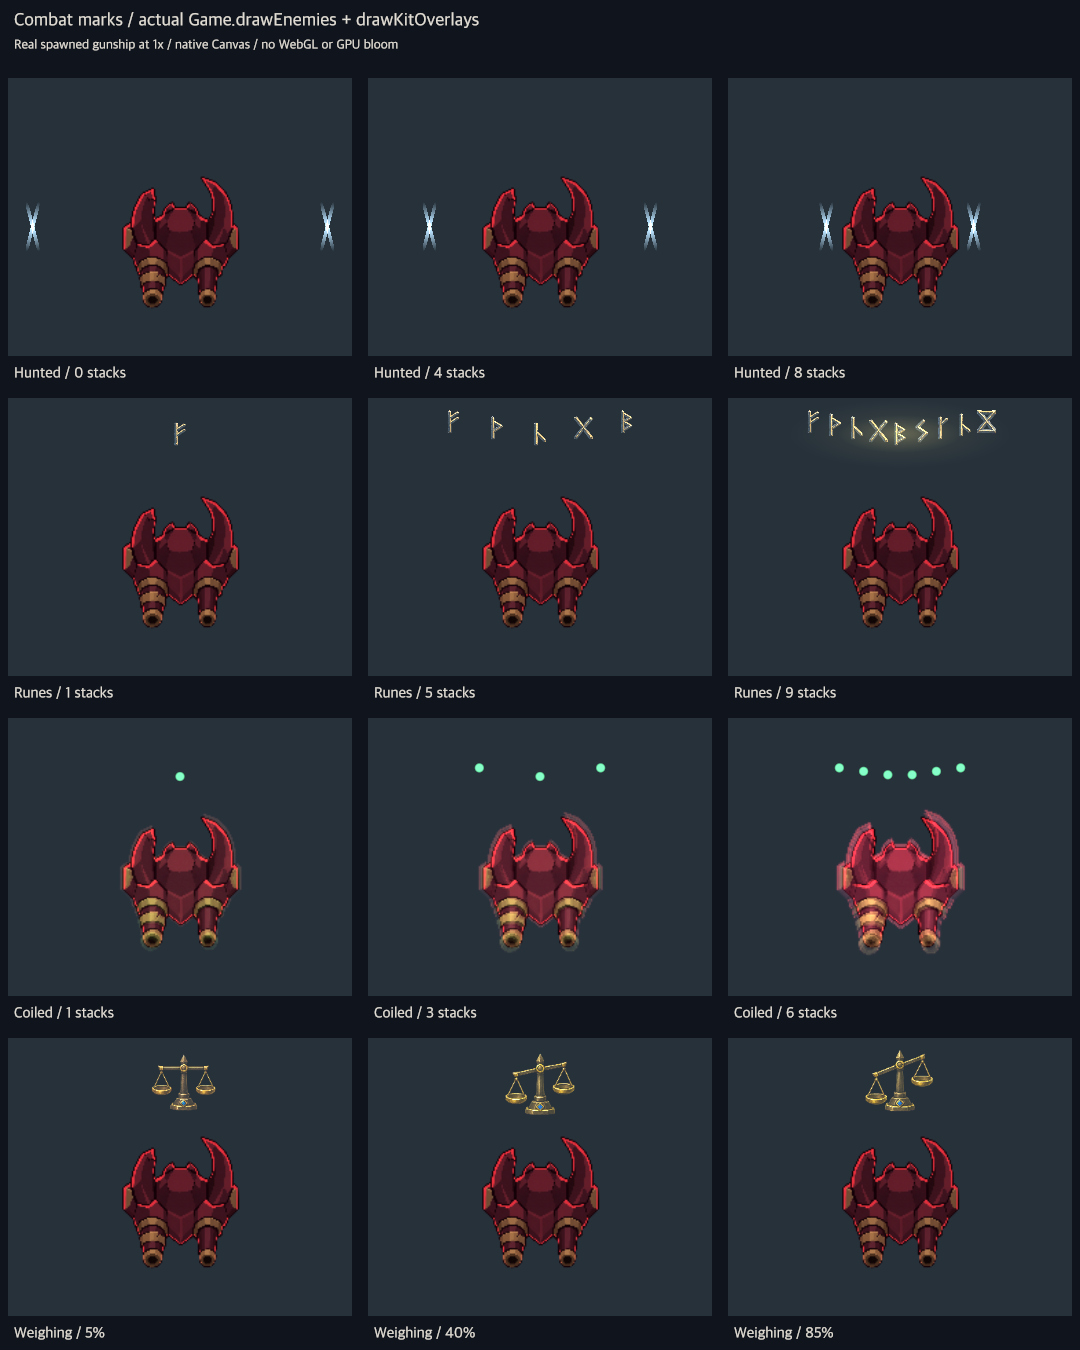
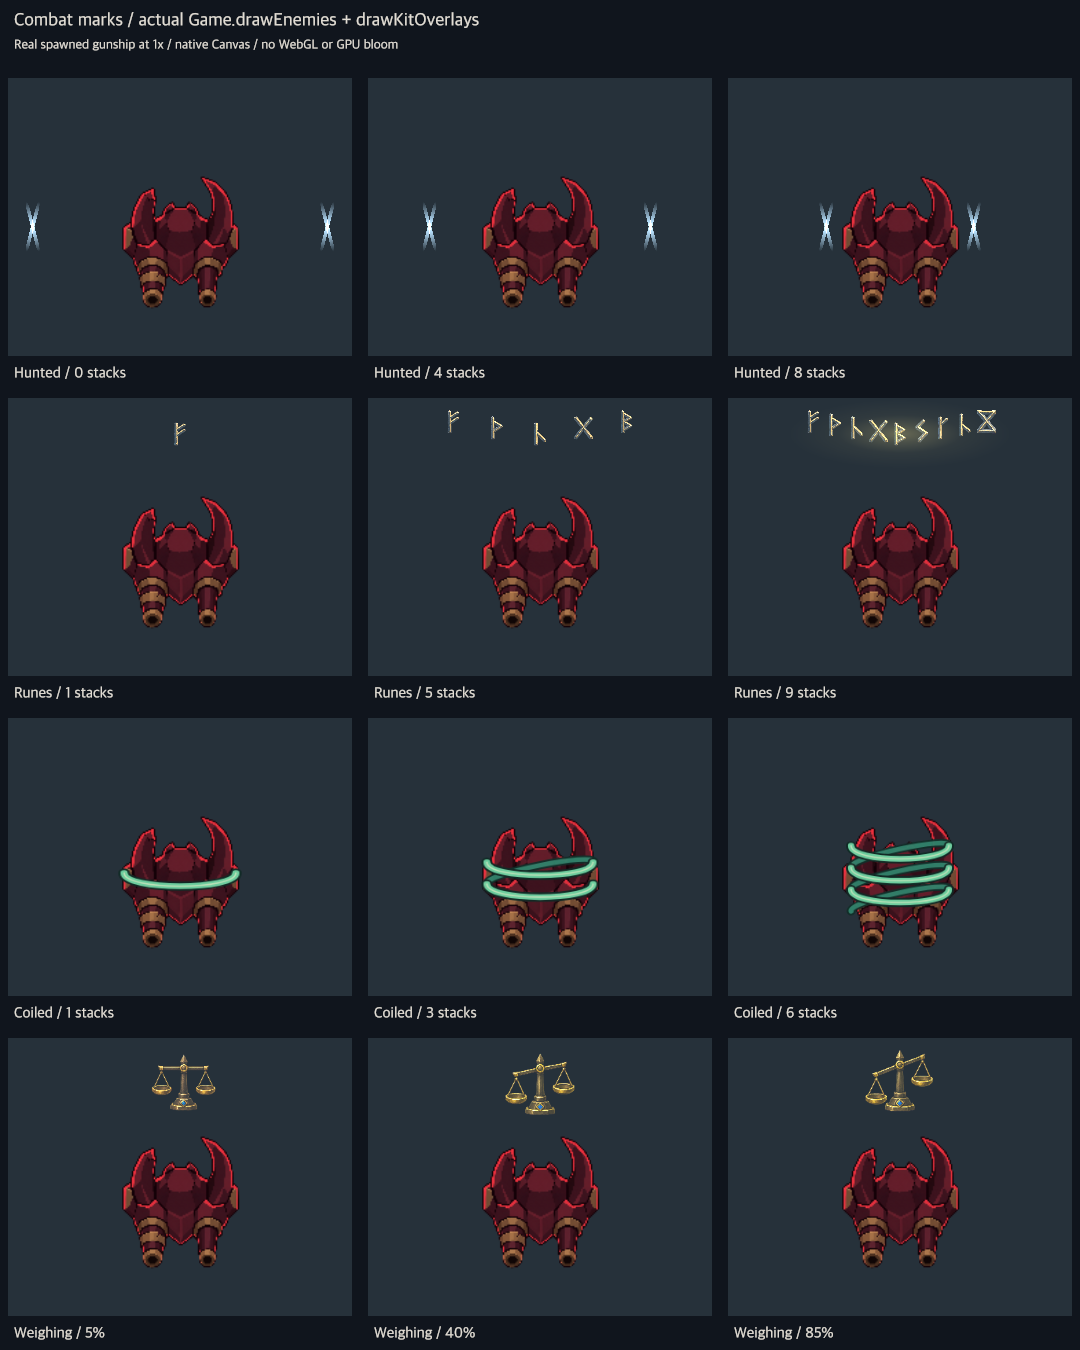
Clarify coil stacks and rename Loki's bullet snatch

Changed region(s): [[0.7639, 0.56, 0.9167, 0.7156], [0.4278, 0.5911, 0.5806, 0.7156], [0.0917, 0.5911, 0.2444, 0.7156]]

diff --git a/js/run.js b/js/run.js
@@ -198,8 +198,8 @@
                  attack: 'THE WEIGHING: your hits load the scales on every foe; when they tip, the Verdict devours the weak for gold (bosses take a judgment burst + Weaken).',
                  special: 'GATE OF DUAT: a gate of sand opens below; the wounded are dragged toward judgment, bleeding missing health.' },
     loki:      { name: 'LOKI', epithet: 'the Trickster', pantheon: 'ASGARD', css: '#8cff5a', color: [0.55, 1.0, 0.35],
-                 // PASS2: PILFER text is pre-set so a restore of the Loki ATTACK draft is already correct.
-                 attack: 'PILFER — your hits pickpocket a foe (3 marks); on the third, snatch the 8 nearest enemy bullets.',
+                 // PASS2: SNATCH text is pre-set so a restore of the Loki ATTACK draft is already correct.
+                 attack: 'SNATCH — your hits pickpocket a foe (3 marks); on the third, snatch the 8 nearest enemy bullets.',
                  special: 'Shadow-Twin: a decoy that draws all aimed fire and soaks bullets.' },
     odin:      { name: 'ODIN', epithet: 'the Allfather', pantheon: 'ASGARD', css: '#cfd6e0', color: [0.8, 0.85, 0.92],
                  attack: 'NINE NIGHTS: one heavy rune-bolt; every 4th hit carves a rune into the foe, each +15% against it — forever.',
@@ -251,7 +251,7 @@
                  sDesc: 'Solar Flare flashes the screen white.', sHow: 'Ignites every foe with Burn.' },
     anubis:    { aDesc: 'Hits build Judgment on each foe.', aHow: 'Full Judgment executes weak foes; damages bosses.',
                  sDesc: 'Open a vortex below your ship.', sHow: 'Pulls foes in; damage scales with missing health.' },
-    loki:      { aDesc: 'Hits add Pilfer marks.', aHow: 'On the third, snatch 8 nearby bullets.',
+    loki:      { aDesc: 'Hits add Mischief marks.', aHow: 'On the third, snatch 8 nearby bullets.',
                  sDesc: 'Shadow-Twin decoy stands in for you.', sHow: 'Draws all aimed fire; soaks bullets.' },
     odin:      { aDesc: 'Fire a heavy rune bolt.', aHow: 'Every fourth hit adds +15% damage to that foe.',
                  sDesc: 'Gungnir never misses, piercing foe after foe.', sHow: 'Marks each foe it runs through.' },
@@ -277,7 +277,7 @@
     heimdall:  { attack: { qtyLabel: 'lance damage', secondary: 'marks' }, special: { qtyLabel: 'horn damage', secondary: '+shove' } },
     ra:        { attack: { qtyLabel: 'beam damage', secondary: 'heat stages' }, special: { qtyLabel: 'flare damage', secondary: 'Burn' } },
     anubis:    { attack: { qtyLabel: 'weigh damage', secondary: 'the scales' }, special: { qtyLabel: 'gate drain', secondary: 'bleed' } },
-    loki:      { attack: { qtyLabel: 'pilfer damage', secondary: 'bullet snatch' }, special: { qtyLabel: 'decoy soak', secondary: 'draw' } },
+    loki:      { attack: { qtyLabel: 'stolen dagger damage', secondary: 'bullet snatch' }, special: { qtyLabel: 'decoy soak', secondary: 'draw' } },
     odin:      { attack: { qtyLabel: 'bolt damage', secondary: 'rune carve' }, special: { qtyLabel: 'Gungnir damage', secondary: 'pierce' } },
     wukong:    { attack: { qtyLabel: 'clone fire', secondary: 'spawn odds' }, special: { qtyLabel: 'staff damage', secondary: 'stun' } },
     guanyu:    { attack: { qtyLabel: 'crescent damage', secondary: 'per-pierce' }, special: { qtyLabel: 'sweep damage', secondary: 'shove' } },
@@ -353,8 +353,8 @@
     heimdall: [['heimVigil', '+20% damage to Marked foes', 'any'], ['heimHorn', 'Gjallarhorn hits harder; shove 350px', 'special'], ['heimEcho', 'the horn echoes once at 50% after 1s', 'special']],
     ra: [['raRamp', 'beam ramps faster & higher', 'attack'], ['raSpread', 'burning foes spread Burn on death', 'any'], ['raSplit', 'beam splits vs swarms', 'attack'], ['raBurn', 'beam ignites its target', 'attack']],
     anubis: [['anubisHeavy', 'HEAVY HEART: foes below half tip 2× faster', 'attack'], ['anubisFeast', 'FEAST OF THE FAITHFUL: Verdict/Gate kill gold +50%', 'any'], ['anubisRefund', 'a Verdict refunds special charge', 'attack'], ['anubisShard', 'a Verdict drops a DIVINE INTERVENTION shard', 'attack']],
-    // PASS2: lokiVaunt + lokiChance restored under PILFER (their Confuse-era readers are replaced).
-    loki: [['lokiLong', 'decoy lasts 6 → 9s', 'special'], ['lokiBoom', 'decoy explodes: bullets → gold', 'special'], ['lokiVaunt', 'pilfered daggers charge DIVINE INTERVENTION', 'attack'], ['lokiChance', 'PICKPOCKET: Pilfer on the 2nd mark; steal 12', 'attack']],
+    // PASS2: lokiVaunt + lokiChance restored under SNATCH (their Confuse-era readers are replaced).
+    loki: [['lokiLong', 'decoy lasts 6 → 9s', 'special'], ['lokiBoom', 'decoy explodes: bullets → gold', 'special'], ['lokiVaunt', 'stolen daggers charge DIVINE INTERVENTION', 'attack'], ['lokiChance', 'PICKPOCKET: Snatch on the 2nd mark; steal 12', 'attack']],
     odin: [['odinRaven', 'odinFury: runes carve every 3rd hit (from 4th)', 'attack'], ['odinMark', 'Gungnir marks last; bonus x1.4', 'special'], ['odinRavenMark', 'odinSunder: doom-bolts splash 50% to a nearby foe', 'attack'], ['odinGungnir', 'Gungnir +50% damage & longer', 'special']],
     wukong: [['wukongClones', 'clones last 7s, cap 3', 'attack'], ['wukongStaff', 'staff wider; survivors Stunned', 'special'], ['wukongSpecial', 'clones echo your special at 25%', 'special'], ['wukongChance', 'clone spawn 20% → 35%', 'attack']],
     quetz: [['quetzBig', 'serpent larger & slower', 'special'], ['quetzGold', 'eaten bullets also pay gold', 'special'], ['quetzCircle', 'serpent circles you at the end', 'special'], ['quetzPierce', '+1 more pierce', 'attack']],
@@ -490,7 +490,7 @@
     if (!slots.length) return null;
     var slot = slots[Math.floor(Run.rng() * slots.length)];
     var owned = slot === 'attack' ? st.attackGod : st.specialGod;
-    var others = GOD_KEYS.filter(function (g) { return g !== owned; });   // PASS2: Loki ATTACK restored (PILFER)
+    var others = GOD_KEYS.filter(function (g) { return g !== owned; });   // PASS2: Loki ATTACK restored (SNATCH)
     var g = others[Math.floor(Run.rng() * others.length)];
     return slot === 'attack' ? tAttack(g, true) : tSpecial(g, true);
   }
@@ -547,7 +547,7 @@
     // attack / special transforms — only while the slot is empty.
     // Swaps are NOT part of the weighted pool: they'd flood it (11 gods × weight
     // per filled slot). A single swap card is rarely injected in pickDistinct.
-    if (!st.attackGod) GOD_KEYS.forEach(function (g) { push(tAttack(g, false), 14); });   // PASS2: Loki ATTACK restored (PILFER)
+    if (!st.attackGod) GOD_KEYS.forEach(function (g) { push(tAttack(g, false), 14); });   // PASS2: Loki ATTACK restored (SNATCH)
     if (!st.specialGod) GOD_KEYS.forEach(function (g) { push(tSpecial(g, false), 12); });
     // transform LEVEL-UP (pom) cards — your own equipped god, up the ladder
     if (st.attackGod && st.attackR < 3.5) push(tLevel('attack', st.attackGod), 10);
@@ -874,7 +874,7 @@
     var st = Game.st();
     if (idx === 0) {
       // Hades opening: three ATTACK transforms from three different gods
-      var gs = GOD_KEYS.slice();   // PASS2: Loki ATTACK restored (PILFER) — all gods eligible for the opening pick
+      var gs = GOD_KEYS.slice();   // PASS2: Loki ATTACK restored (SNATCH) — all gods eligible for the opening pick
       for (var s = gs.length - 1; s > 0; s--) { var j = ri(s + 1); var t = gs[s]; gs[s] = gs[j]; gs[j] = t; }
       Run.draftOffers = [finalizeBoon(tAttack(gs[0], false), false), finalizeBoon(tAttack(gs[1], false), false), finalizeBoon(tAttack(gs[2], false), false)];
     } else {

diff --git a/js/gl.js b/js/gl.js
@@ -83,7 +83,7 @@
     FLAT_RECT: 125, FLAT_TRIANGLE: 126, FLAT_DISC: 127,
     STATUS_FIRE0: 128, // six fixed-root flame drawings, not scaled stickers
     STATUS_HEART: 134, STATUS_FEAR: 135, STATUS_WEAK: 136,
-    STATUS_STUN: 137, STATUS_BRACKET: 138, STATUS_TARGET: 140
+    STATUS_STUN: 137, STATUS_BRACKET: 138, STATUS_TARGET: 140, STATUS_COIL: 151
   };
 
   var gl = null;
@@ -313,6 +313,7 @@
     // Keep ordinary cells and their alpha-derived collision sizing untouched.
     // Boss animation gets native-sized storage instead of enlarging 128px art.
     if (i >= 112 && i <= 115) return { x: 1024 + ((i - 112) % 2) * 512, y: Math.floor((i - 112) / 2) * 512, size: 512 };
+    if (i >= 151 && i <= 156) return { x: 1024 + (i - 151) * CELL, y: 1792, size: CELL };
     if (i >= 144 && i <= 150) return { x: 1024 + ((i - 144) % 4) * 256, y: 1280 + Math.floor((i - 144) / 4) * 256, size: 256 };
     if (i >= 128 && i < 192) return { x: 1024 + ((i - 128) % 8) * CELL, y: 1024 + Math.floor((i - 128) / 8) * CELL, size: CELL };
     var cx = (i % COLS) * CELL;
@@ -876,6 +877,31 @@
     draw(GL.SPR.STATUS_BRACKET,function(ctx,r){
       statusStroke(ctx,r);ctx.beginPath();ctx.moveTo(r*.65,-r*.65);ctx.lineTo(-r*.65,-r*.65);ctx.lineTo(-r*.65,r*.65);ctx.stroke();
     });
+    for (var coilStack=1;coilStack<=6;coilStack++) (function(stack) {
+    draw(GL.SPR.STATUS_COIL + stack - 1,function(ctx,r){
+      // One continuous helical winding: shaded return strokes, broad jade
+      // front strokes. Sparse and unornamented so the enemy stays readable.
+      ctx.lineCap='round';ctx.lineJoin='round';
+      function coilPath(front) {
+        ctx.beginPath();
+        for(var turn=0;turn<Math.ceil(stack/2);turn++) {
+          var y=(-stack*.10-.10+turn*.40)*r;
+          if(front) {
+            ctx.moveTo(-r*.82,y);
+            ctx.bezierCurveTo(-r*.82,y+r*.32,r*.82,y+r*.32,r*.82,y);
+          } else if(turn*2+2<=stack) {
+            ctx.moveTo(r*.82,y);
+            ctx.bezierCurveTo(r*.88,y-r*.19,-r*.88,y+r*.21,-r*.82,y+r*.40);
+          }
+        }
+      }
+      coilPath(false);ctx.strokeStyle='#122e29';ctx.lineWidth=r*.15;ctx.stroke();
+      ctx.strokeStyle='#31816a';ctx.lineWidth=r*.085;ctx.stroke();
+      coilPath(true);ctx.strokeStyle='#102a25';ctx.lineWidth=r*.17;ctx.stroke();
+      ctx.strokeStyle='#6ed3a2';ctx.lineWidth=r*.105;ctx.stroke();
+      ctx.strokeStyle='#bce8bd';ctx.lineWidth=r*.025;ctx.stroke();
+    });
+    })(coilStack);
     draw(GL.SPR.STATUS_TARGET,function(ctx,r){
       ctx.strokeStyle='#fff';ctx.lineWidth=r*.095;
       // Open center leaves room for a simultaneous Weak badge.

diff --git a/js/game.js b/js/game.js
@@ -7299,20 +7299,15 @@
       }
       if (ignite) { var ip = 0.6 + 0.4 * Math.sin(t * 12); GL.draw(GL.SPR.GLOW, e.x, gy, span * 1.3, s * 0.4, 0, 1, 0.85, 0.4, 0.4 * ip); }
     }
-    // QUETZ — the coil is a JADE RIM-LIGHT on the constricted foe (intensity + thickness
-    // step with e.coilQ 1-6, jade → hot-white at max), + a jade pip count in the over-hull
-    // band (one pip per coil). No circular arcs (owner ring law).
+    // QUETZ — a literal jade winding around the hull. More bites pull the
+    // coil tighter and add a half-turn per stack; no floating counters or pulse.
     if (e.coilQ > 0 && G.attackGod === 'quetz') {
-      var cf = e.coilQ / 6, qcell = enemyDrawCell(e);
-      var jr = 0.35 + 0.55 * cf, jg = 1.0, jb = 0.5 + 0.45 * cf;              // jade → hot-white as the coil tightens
-      var qsc = 1.05 + 0.07 * cf, qa = 0.32 + 0.30 * cf;                       // thicker + brighter rim per stack
-      var qpulse = e.coilQ >= 6 ? (0.7 + 0.3 * Math.sin(t * 9)) : 1;           // max coil: a CONSTRICT pulse in the rim itself
-      stateRim(qcell, e.x, e.y, s, e.rot, jr, jg, jb, qa * qpulse, qsc);
-      var qspan = s * 0.7, qpy = e.y - s * 0.62;                              // pips ride the over-hull band
-      for (var qp = 0; qp < e.coilQ; qp++) {
-        var qpf = e.coilQ > 1 ? (qp / (e.coilQ - 1) - 0.5) : 0;
-        GL.draw(GL.SPR.CORE, e.x + qpf * qspan, qpy - Math.abs(qpf) * s * 0.1, s * 0.06, s * 0.06, 0, 0.4, 1, 0.6, 0.95);
-      }
+      var cf = Math.min(6, e.coilQ) / 6;
+      var coilW = s * (.82 - .12 * cf);
+      var coilH = s * .64;
+      GL.blendPremult();
+      GL.draw(GL.SPR.STATUS_COIL + Math.min(6, e.coilQ) - 1, e.x, e.y, coilW, coilH, 0, 1, 1, 1, .96);
+      GL.blendAdditive();
     }
     // ANUBIS THE WEIGHING — gold scales glyph over the hull, visibly tipping left as
     // accrued weight loads. Five ordered poses make the approach to the Verdict legible.
@@ -7368,7 +7363,7 @@
       for (var mi = 0; mi < markN; mi++) {
         var mx = e.x + (mi - (markN - 1) * 0.5) * markGap;
         var knifeRot = markN === 1 ? -0.12 : (mi ? 0.34 : -0.34);
-        if (knifeC >= 0) GL.draw(knifeC, mx, markY, s * 0.30, s * 0.50, knifeRot, 1, 1, 1, 0.98 * markPulse);
+        if (knifeC >= 0) GL.draw(knifeC, mx, markY, s * 0.30, s * 0.50, knifeRot + Math.PI, 1, 1, 1, 0.98 * markPulse);
         else GL.draw(GL.SPR.SHARD, mx, markY, s * 0.12, s * 0.30, knifeRot, 0.55, 1.0, 0.35, 0.96 * markPulse);
       }
     }

diff --git a/index.html b/index.html
@@ -47,12 +47,12 @@
   <!-- Load order matters: no modules, each file hangs a namespace on window. -->
   <script src="js/sfx.js?v=20260930-refinements"></script>
   <script src="js/music.js?v=20260930-refinements"></script>
-  <script src="js/sprites-data.js?v=20261003-terror-readability"></script>
+  <script src="js/sprites-data.js?v=20261003-coil-stacks"></script>
   <script src="js/backdrops-data.js?v=20260724-file-art"></script>
-  <script src="js/gl.js?v=20261003-terror-readability"></script>
+  <script src="js/gl.js?v=20261003-coil-stacks"></script>
   <script src="js/engine.js?v=20260930-refinements"></script>
   <script src="js/patterns.js?v=20260723-continuous-world"></script>
-  <script src="js/run.js?v=20261003-terror-readability"></script>
-  <script src="js/game.js?v=20261003-terror-mirrored"></script>
+  <script src="js/run.js?v=20261003-coil-stacks"></script>
+  <script src="js/game.js?v=20261003-coil-stacks"></script>
 </body>
 </html>

diff --git a/BOONS.md b/BOONS.md
@@ -207,28 +207,28 @@ armory, Odin NINE NIGHTS, Heimdall THE BIFRÖST.
 
 ### ASGARD
 
-**LOKI** — PILFER · Shadow-Twin (attack REWORKED, loki rec; **CONFUSE IS DEAD** — ruling 1)
+**LOKI** — SNATCH · Shadow-Twin (attack REWORKED, loki rec; **CONFUSE IS DEAD** — ruling 1)
 - **CONFUSE REMOVED game-wide.** Delete the on-hit confuse roll, the AIMX/AIMY aim-reflection (→ plain target), the
   +15% vs-confused rider. Rename freed `confuseT/confuseBudget` → `trickStacks/trickBudget`. Loki's boss self-harm now
-  lives **inside Pilfer's boss budget**, not a confuse mechanic.
-- **ATK PILFER**: every landed shot +1 **MISCHIEF** to that foe (cap 3, decay 2.5s). At 3 → **PILFERED**: grab the 8
+  lives **inside Snatch's boss budget**, not a confuse mechanic.
+- **ATK SNATCH**: every landed shot +1 **MISCHIEF** to that foe (cap 3, decay 2.5s). At 3 → **SNATCHED**: grab the 8
   live enemy bullets nearest the foe within 240px, **biased to bullets already >80px from any emitter** (never whiffs /
   never a panic-clear). Each: `friendly=true`, `srcId=foe`, tint `0.55,1.0,0.35`, reverse 180°, gentle homing (`~2.2 rad/s`)
   to nearest OTHER live enemy. Damage rides existing `flipDmg=2.0*attackR` (no rider). Reset stacks, 1.2s per-foe cooldown.
   *On-foe green pickpocket knife on the first hit, then a pair on the second (the third triggers immediately; no mystical glyph).
-  On Pilfer: green RING implodes 0.15s, 8 bullets freeze 1 frame +
+  On Snatch: green RING implodes 0.15s, 8 bullets freeze 1 frame +
   white pop, re-tint green, snap 180° with knotwork streaks + home; thin green thread foe→bullets.* Voice reverse-pickpocket
   LIFT (reversed-envelope bandpass pink-noise → bright click on flip; detuned triangle twin-shimmer 880→1320Hz; per-dagger
-  metallic clink). ELECTRIC+warble is the base shot; LIFT is the Pilfer event.
+  metallic clink). ELECTRIC+warble is the base shot; LIFT is the Snatch event.
 - **SP SHADOW-TWIN** (unchanged): decoy draws all aimed fire, soaks streams; **never attacks** (the one sanctioned
   no-damage special). Owned-entity law (§5): green body, cyan heart, nose-up.
-- **★** atk→pilfered-dagger dmg (via flipDmg) · sp→twin soak HP/duration.
-- **CARD ATK**: "PILFER — your hits pickpocket a foe (3 marks); on the third, snatch the 8 nearest enemy bullets." /
+- **★** atk→stolen-dagger dmg (via flipDmg) · sp→twin soak HP/duration.
+- **CARD ATK**: "SNATCH — your hits pickpocket a foe (3 marks); on the third, snatch the 8 nearest enemy bullets." /
   ▸ "They flip green, spin 180°, and hunt their own kind." / "★★★ ×2.25 dagger damage"
 - **BOSS** stacks build on the lone boss from your hits; stolen bullets home back onto it, capped **0.5% maxhp/cast** via
   `trickBudget/consumeBossFlip` — bleeds its own wall, can't be looted to death.
-- **RE-ANCHORS** lokiVaunt→"pilfered daggers also charge APOTHEOSIS" (already true, addGauge(0.6)); lokiChance→**PICKPOCKET**
-  (Pilfer on 2nd stack, steal 12). DOPPELGANGER deferred (OPEN CALLS).
+- **RE-ANCHORS** lokiVaunt→"stolen daggers also charge APOTHEOSIS" (already true, addGauge(0.6)); lokiChance→**PICKPOCKET**
+  (Snatch on 2nd stack, steal 12). DOPPELGANGER deferred (OPEN CALLS).
 
 **ODIN** — NINE NIGHTS · Gungnir (attack REWORKED, owner design 2026-07-18 replacing ÓÐR; ravens → charm)
 - **ATK NINE NIGHTS**: the single-target specialist archetype — weak into popcorn, inevitable into anything that
@@ -344,8 +344,8 @@ I don't want the fan out"; owner picked SPECTRUM LANCE)
   `coilQ=min(6,+1); coilT=0.9`; applied dmg ×`(1+0.10*coilQ)` (max ×1.60); full uncoil 0.9s after last bite; ~6 bites
   (~1–1.5s) to max; resets on target-swap. (3) **clarity**: lock braid `s.phase=i*(TAU/3)` (delete `Math.random()*6.28`) →
   clean repeatable triple-helix. *Three lime streams `0.4/1.0/0.7` at 120° offsets, plaiting with knot sparks (VFX-only, 0
-  dmg). COIL renders on the target: `coilQ` thin lime rings tightening (`radius*1.6`@1 → `*1.0`@6), jade→hot-white; CONSTRICT
-  pulse-ring snaps in at max.* Voice SERPENT breathy "fwip" (triangle ~180Hz + 2–3k breath); COIL quantized rising whistle
+  dmg). COIL renders as a compact jade winding around the target, adding a half-turn per stack. It tightens with
+  `coilQ` (1–6), with dark return strokes and pale front strokes; no floating dots or pulsing silhouette.* Voice SERPENT breathy "fwip" (triangle ~180Hz + 2–3k breath); COIL quantized rising whistle
   0.9k→2.4k/6 stacks; max = hiss + 90Hz crush; uncoil downward slide.
 - **SP SKY SERPENT** (unchanged): eats bullets into your **apotheosis gauge**; extends `hazards`.
 - **★** atk→weave & coil-multiplied dmg · sp→serpent eat-rate / gauge feed.
@@ -435,7 +435,7 @@ manager. **Confuse removed** (ruling 1); roster = 7.
 - **Loki's MISCHIEF** is a stack-mark, not a status: green TRISKELE (§2 Loki), 1/2/3 kunai.
 - Each glyph gets a faint dark backing GLOW (opaque-survives-bloom, ART.md). Per-status apply-sting from the synth (§6);
   the two BODY-verb states (stun/terror) carry the loudest audio contrast.
-- **Freed by confuse's death**: `confuseT/confuseBudget` → `trickStacks/trickBudget` (Loki Pilfer boss budget); the green
+- **Freed by confuse's death**: `confuseT/confuseBudget` → `trickStacks/trickBudget` (Loki Snatch boss budget); the green
   confuse ring and the purple mirror-chevron brand are both deleted.
 
 ### 4a. THE RING BAN — state visual law (owner ruling 2026-07-21, binding)
@@ -617,7 +617,7 @@ spawn-tether. Reads as an ENTITY (dark body, health shimmer), never a bullet; lo
 Cross-cutting; unblocks everything.
 
 **Pass 2 — Kit reworks.** The 8 reworked kits: Artemis HUNT (Hunted brand, chain/sticky/splinter) + §3 PRECISION, Ares War-Heat, Odin NINE NIGHTS + Huginn&Muninn charm,
-Loki PILFER, the three differentiated specials, Quetz CONSTRICTOR + COIL. Then bring the 7 unchanged kits up to code
+Loki SNATCH, the three differentiated specials, Quetz CONSTRICTOR + COIL. Then bring the 7 unchanged kits up to code
 (Poseidon/Guan Yu feedback, Anubis execute tell…). Heimdall THE BIFRÖST joins the reworked-kit list (owner 2026-07-18).
 
 **Pass 3 — Sound.** §6 material-voice table + 9 builders + pantheon table + mix law; per-god bespoke event cues; Communion
@@ -673,7 +673,7 @@ ratification, default proceeds; `[SCOPE]` = content-work confirm.
 - **Faction** — [CONFIRM] Apostate decoy 0.6s curdle (default keep; else instant-red). · [VARIANT] Wukong clone hue gold vs
   amber. · [VARIANT] Ares wraith treatment (cyan-heart-only vs +cyan trail).
 
-**Closed by orchestrator rulings (were flagged, now settled):** confuse/Loki (ruling 1 — confuse dead, Pilfer replaces,
+**Closed by orchestrator rulings (were flagged, now settled):** confuse/Loki (ruling 1 — confuse dead, Snatch replaces,
 purple mirror-chevron tell dropped) · Quetz role (ruling 2 — CONSTRICTOR/attack, serpent voice on shot correct).
 
 **Conflicts resolved beyond the rulings:** (1) Artemis **special** — attack rec's KILLING ARROW vs specials rec's THE LOOSED
@@ -692,7 +692,7 @@ whose *kit identity* changed against what the prompts actually depict:
 |---|---|---|
 | **#9 ARTEMIS** | silver bow + glowing marking-arrow nocked | **UNCHANGED** — bow + arrow are still the props of THE HUNT / THE LOOSED ARROW; mechanic changed, depiction didn't |
 | **#11 ARES** | flanked by Phobos & Deimos wraiths + notched spear | **UNCHANGED** — wraiths = the still-current special; the spear covers the new War-Heat javelin→xiphos→doru ladder |
-| **#15 LOKI** | shadow-twin decoy peeling off; venom-green accent | **UNCHANGED** — decoy = the still-current special; PILFER depicts no god-prop; green accent still matches |
+| **#15 LOKI** | shadow-twin decoy peeling off; venom-green accent | **UNCHANGED** — decoy = the still-current special; SNATCH depicts no god-prop; green accent still matches |
 | **#16 ODIN** | leveling Gungnir + Huginn & Muninn circling | **UNCHANGED** — Gungnir = the still-current special; ravens migrate attack→charm but stay an Odin motif; the heavy rune-bolt is spear-adjacent |
 
 **Digest (updated 2026-07-18, owner call):** the original 32 prompts are still SAFE TO GEN unchanged — no portrait needs an

diff --git a/README.md b/README.md
@@ -184,7 +184,7 @@ special transform, and two mod cards:
 - **DUAT** — **ANUBIS** (**Weigher of Hearts** — +25% damage below half health,
   **executes** non-bosses below 25% for bonus gold / **Judgment of Duat** — an
   instant strike on every foe for a share of its missing health).
-- **ASGARD** — **LOKI** (**PILFER** — your hits pickpocket a foe (3 marks); on the third,
+- **ASGARD** — **LOKI** (**SNATCH** — your hits pickpocket a foe (3 marks); on the third,
   snatch the 8 nearest enemy bullets — they flip green, spin 180° and hunt their own kind /
   Shadow-Twin decoy that draws all aimed fire and soaks streams — the twin never attacks:
   the one sanctioned no-damage special), **ODIN** (**NINE NIGHTS** — one heavy rune-bolt;
